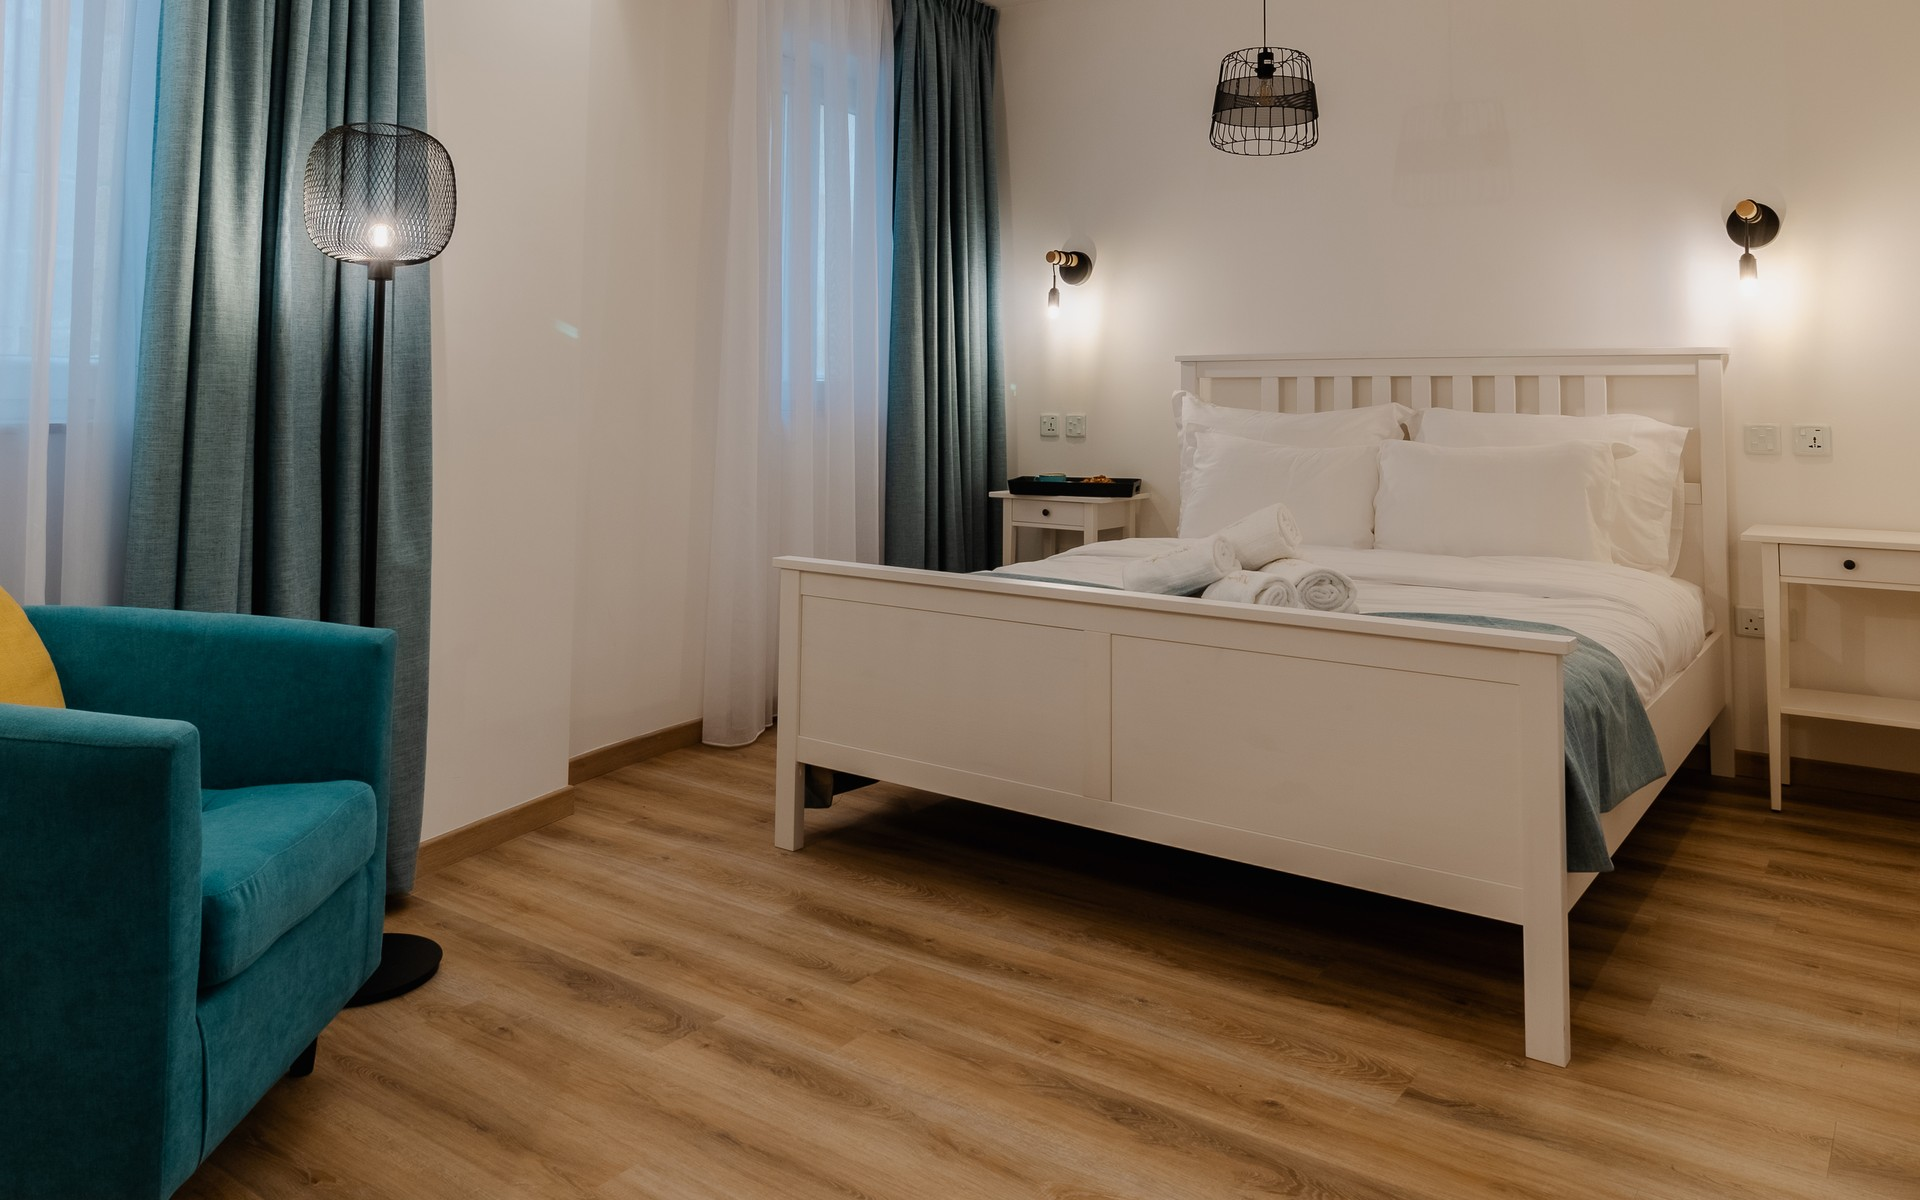
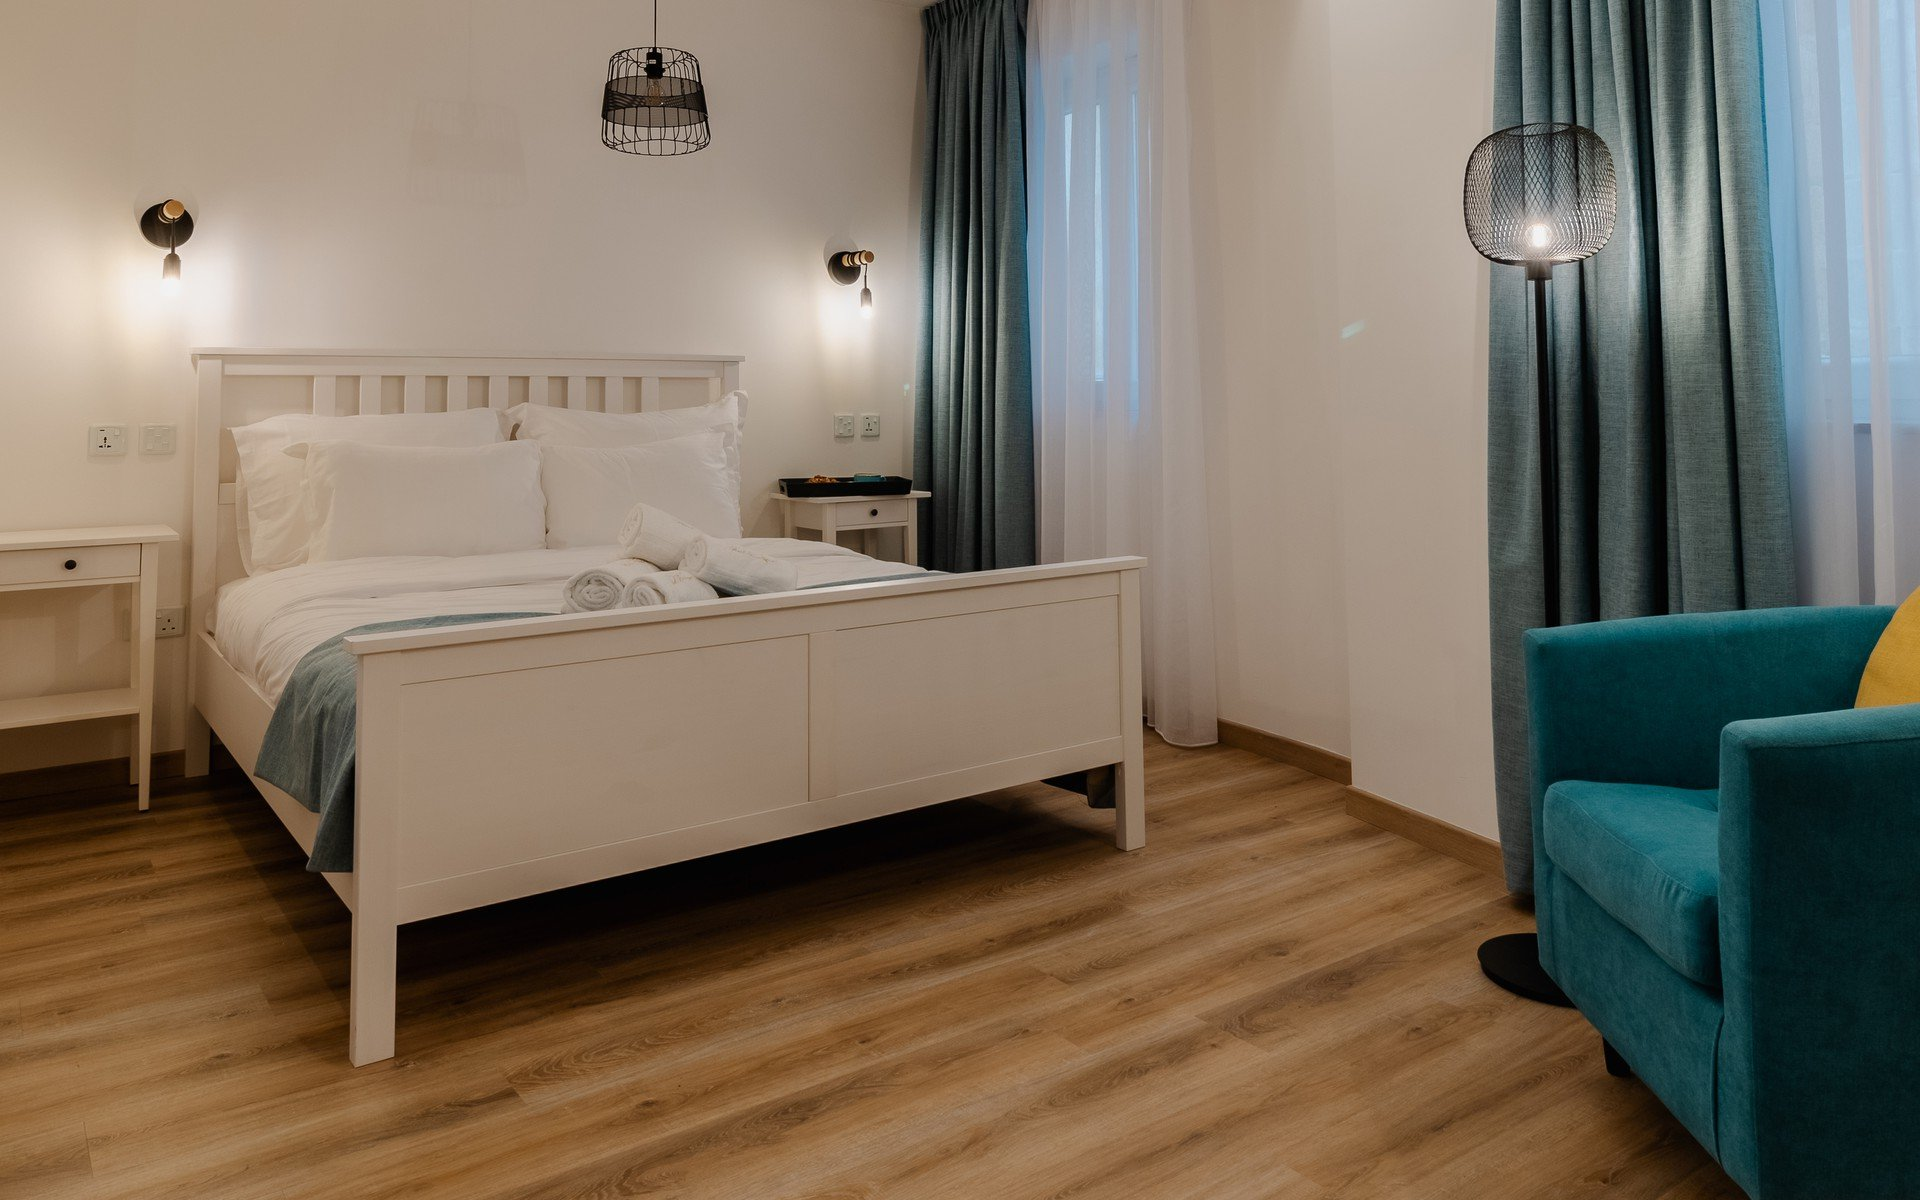
Mobile header fixes, slider improvements, and hero image updates
- Mobile navbar: increased height to 120px, menu drops below as overlay
- Mobile logo: reduced padding to center in header
- Hamburger button: vertically centered
- Slider: changed bg-blck to #000 to eliminate flash between transitions
- Replaced terrace hero slide with room-painting photo (IMG_1952-HDR)
- Flipped room-bed slide horizontally

diff --git a/site/css/style.css b/site/css/style.css
@@ -400,7 +400,7 @@ blockquote cite:before {
 
 /* background & color */
 .bg-blck {
-    background: #222;
+    background: #000;
 }
 .bg-cream {
     background: #f8f5f0 ;
@@ -1069,17 +1069,17 @@ color: #b95c47;
         background: rgba(0,0,0,0.3);
         padding-top: 0px;
         padding-bottom: 0px;
-        height: 90px;
+        min-height: 120px;
     }
     .nav-scroll {
         background: #fff;
     }
     .logo-wrapper {
         float: left;
-        padding: 26px 0 26px 15px;
+        padding: 0 0 0 15px;
     }
     .nav-scroll .logo-wrapper {
-        padding: 26px 0 26px 15px;
+        padding: 0 0 0 15px;
         background-color: transparent;
     }
     .nav-scroll .logo-img {
@@ -1088,6 +1088,10 @@ color: #b95c47;
     .navbar .logo {
         text-align: left;
         margin-left: 0px;
+    }
+    .logo-wrapper .logo h2 {
+        padding: 0;
+        font-size: 60px;
     }
     .nav-scroll .logo {}
     .logo-img {
@@ -1099,7 +1103,7 @@ color: #b95c47;
         margin-right: 0px;
         outline: none !important;
         background: transparent;
-        margin-top: 10px;
+        margin-top: 0px;
         border: none;
     }
     .navbar button:hover {
@@ -1176,6 +1180,10 @@ color: #b95c47;
     }
 
     .navbar .navbar-collapse {
+        position: absolute;
+        top: 120px;
+        left: 0;
+        right: 0;
         max-height: 450px;
         overflow: auto;
         background: #fff;

diff --git a/site/index.html b/site/index.html
@@ -97,7 +97,7 @@
                 </div>
             </div>
             <!-- Slide 3 -->
-            <div class="text-center item bg-img" data-overlay-dark="4" data-background="img/slider/terrace.jpg" data-position="left center">
+            <div class="text-center item bg-img" data-overlay-dark="4" data-background="img/slider/room-painting.jpg" data-position="center center">
                 <div class="v-middle caption">
                     <div class="container">
                         <div class="row">
